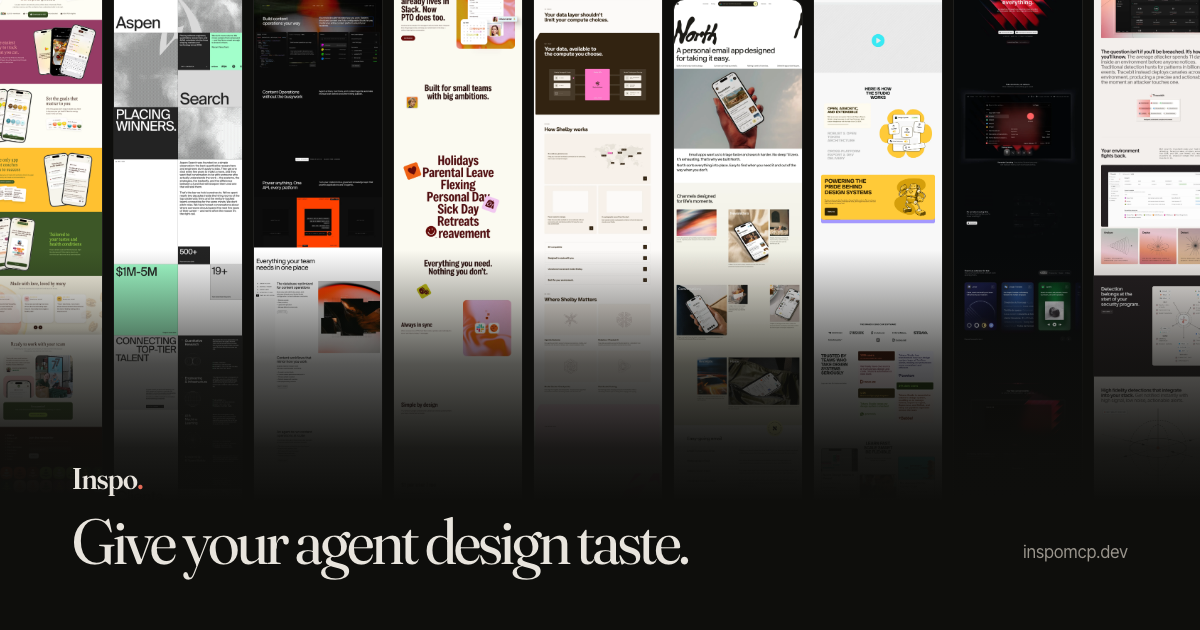
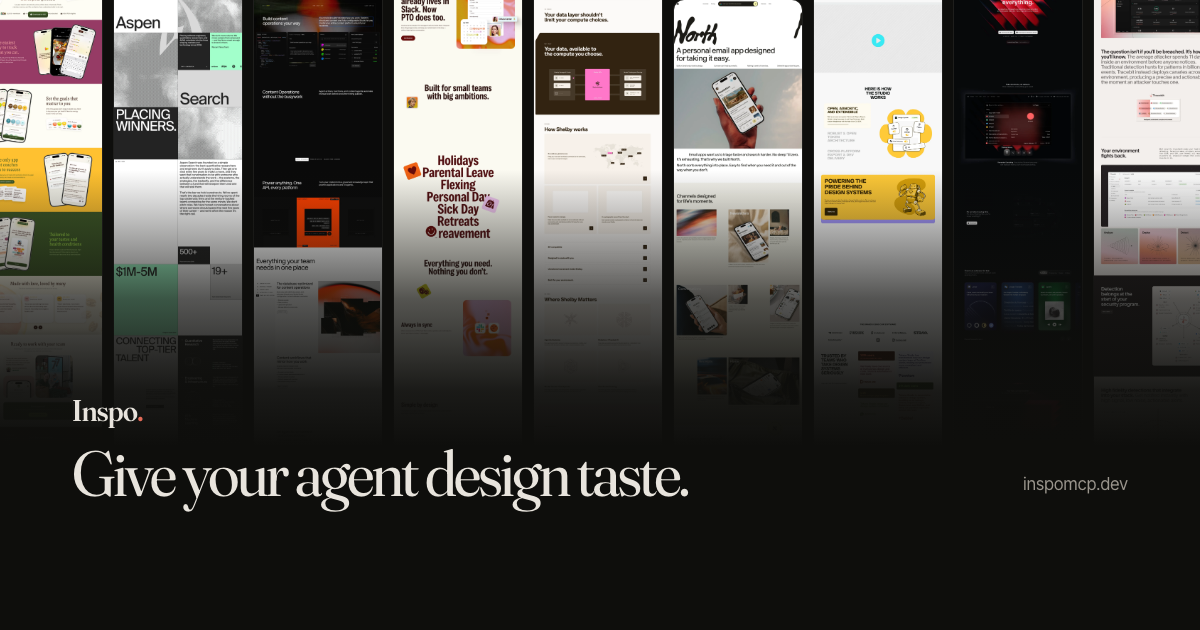
fix(web): lift the OG copy above the X title overlay
X paints the link title over the bottom of the card, on top of the
headline. The copy and the fade move up so the bottom band is empty.

diff --git a/apps/web/og/og.css b/apps/web/og/og.css
@@ -34,8 +34,8 @@ html, body { width: 1200px; height: 630px; overflow: hidden; -webkit-font-smooth
 .strip { width: 128px; border-radius: 10px; overflow: hidden; flex: none; box-shadow: 0 0 0 1px rgba(232, 228, 221, 0.08); }
 .strip img { display: block; width: 128px; height: auto; }
 .shade {
-  position: absolute; left: 0; right: 0; bottom: 0; height: 380px;
-  background: linear-gradient(180deg, rgba(14,14,12,0) 0%, rgba(14,14,12,0.7) 30%, rgba(14,14,12,0.95) 52%, var(--night) 66%);
+  position: absolute; left: 0; right: 0; bottom: 0; height: 460px;
+  background: linear-gradient(180deg, rgba(14,14,12,0) 0%, rgba(14,14,12,0.7) 28%, rgba(14,14,12,0.95) 48%, var(--night) 60%);
 }
-.copy { position: absolute; left: 72px; right: 72px; bottom: 60px; display: flex; justify-content: space-between; align-items: flex-end; }
+.copy { position: absolute; left: 72px; right: 72px; bottom: 128px; display: flex; justify-content: space-between; align-items: flex-end; }
 .copy h1 { font-size: 64px; margin-top: 18px; }
